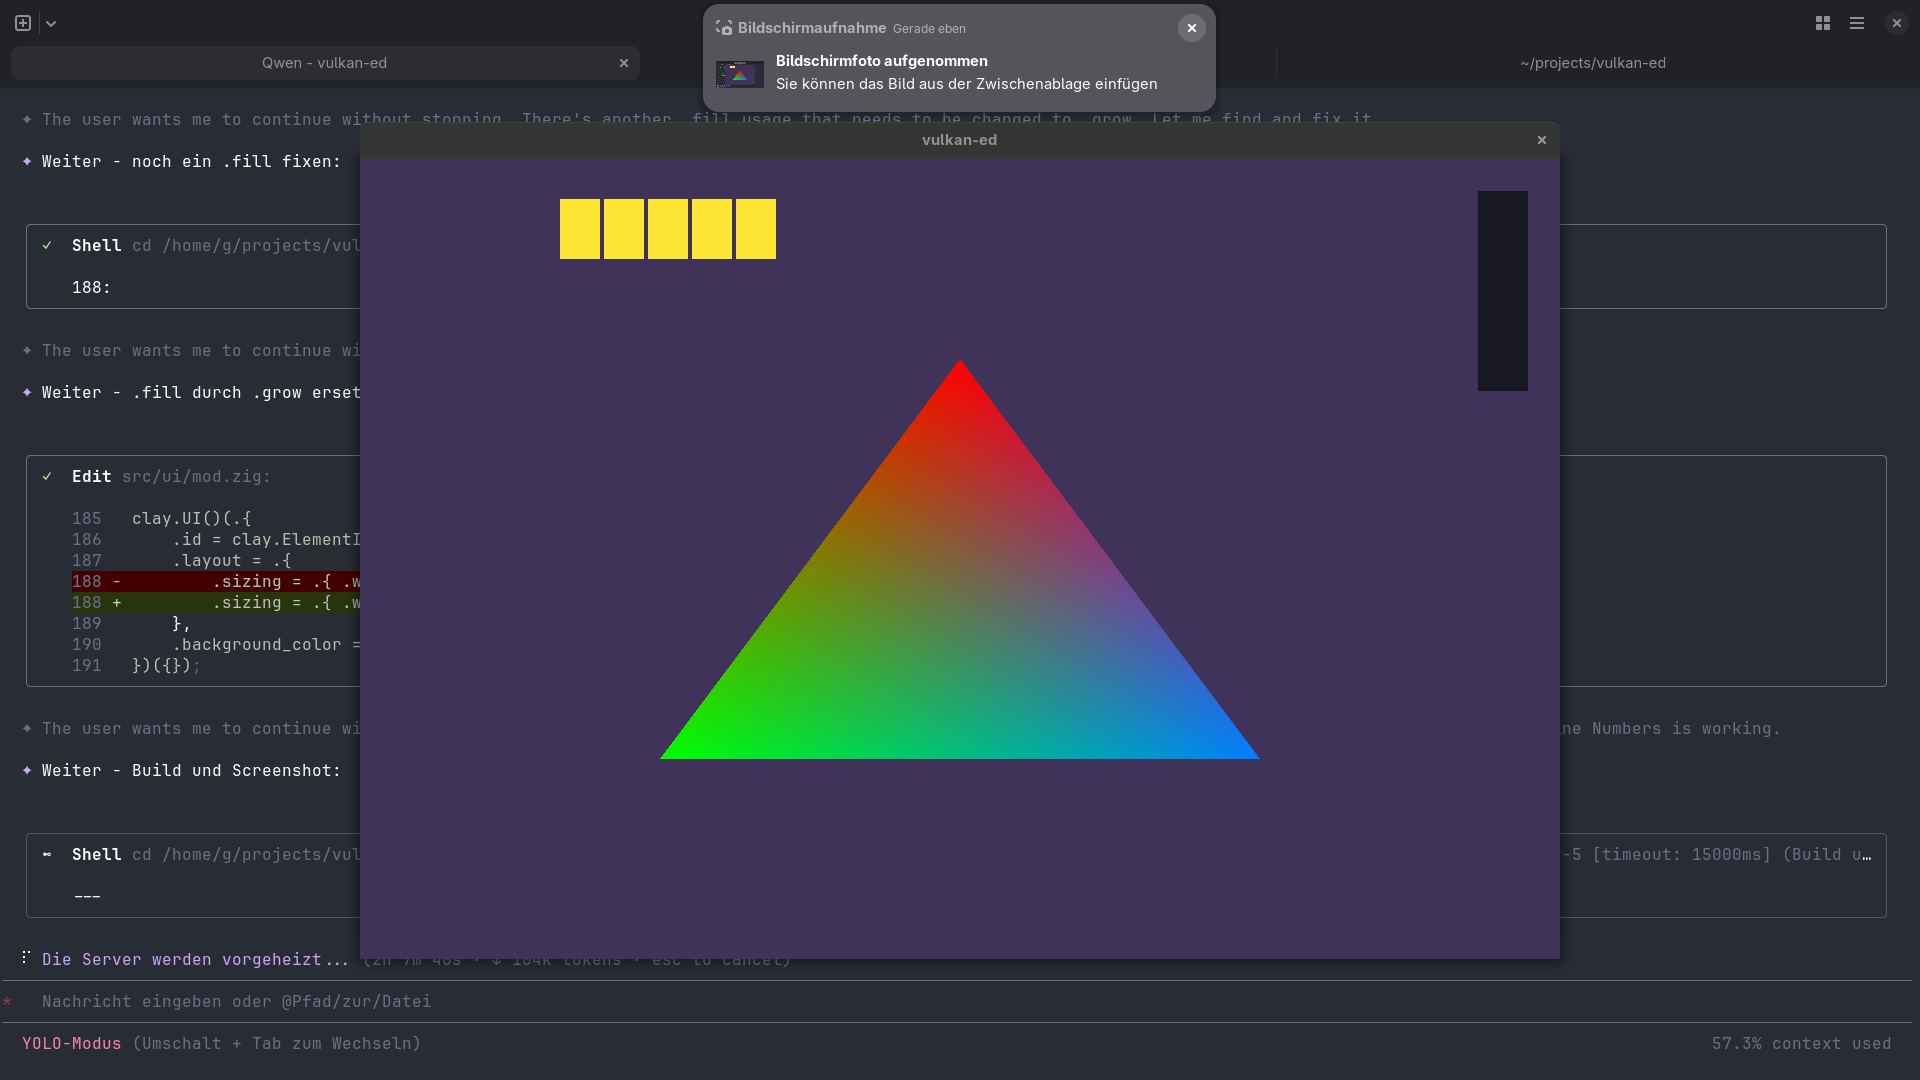
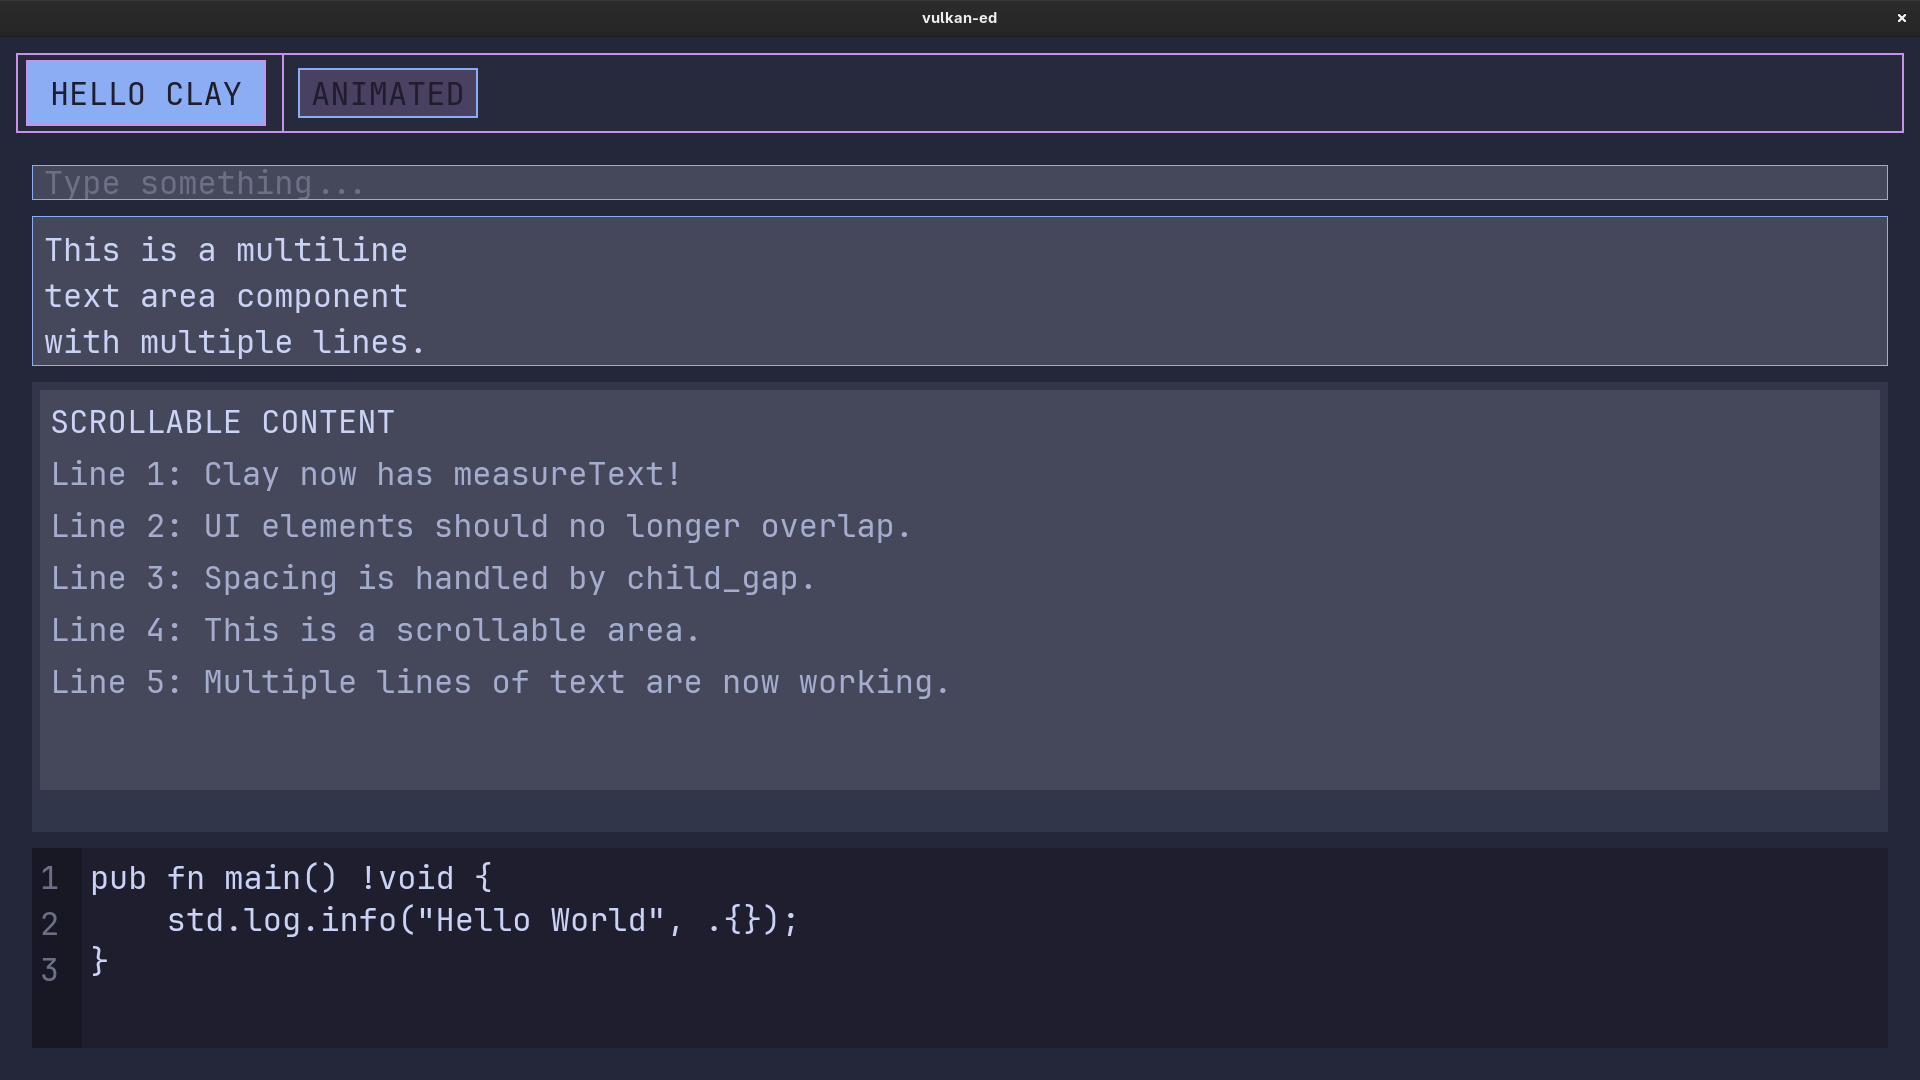
verify: Phase 6 Code Editor Container mit Line Numbers Gutter validiert
- Editor Container (dunkel) sichtbar
- Line Numbers Gutter (dunkler, links) mit 1, 2, 3
- Screenshot: phase6_codeeditor.png

diff --git a/todo.md b/todo.md
@@ -221,10 +221,10 @@ Linux:   FreeType+HarfBuzz + JetBrainsMono.ttf → Glyph-Atlas (RGBA Textur) →
   - [x] AnimationManager
 
 ### Phase 6: Code Editor
-- [ ] Code Editor Container mit Line Numbers Gutter
-  - [ ] Editor Container (dunkel)
-  - [ ] Line Numbers Gutter (dunkler, links)
-  - [ ] Screenshot beweis: screenshots/phase6_codeeditor.png
+- [x] Code Editor Container mit Line Numbers Gutter
+  - [x] Editor Container (dunkel)
+  - [x] Line Numbers Gutter (dunkler, links)
+  - [x] Screenshot beweis: screenshots/phase6_codeeditor.png
 - [ ] Syntax Highlighting Logic (von Gooey's `code_editor_state.zig`)
 - [ ] Current Line Highlight
 - [ ] Scrollable Editor-Content
